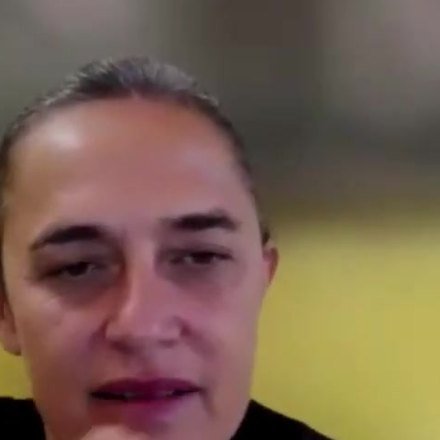
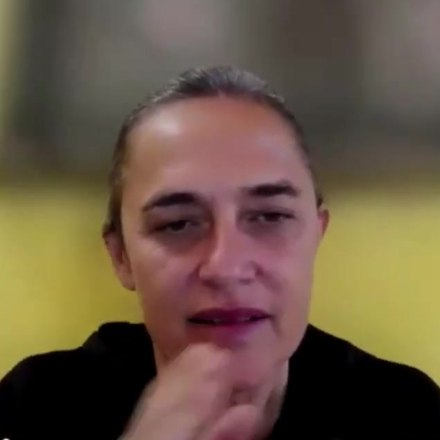
Give the Guests section the site's own visual identity, and centre the faces
THE FACES ARE NOW MEASURED, NOT ESTIMATED. Each portrait is re-cropped around a
detected face rather than a guessed centre, and all three land at x=0.50 with a
little headroom above. The crop is a fixed 1.6 times the detected face height, so
the face occupies the same share of every portrait regardless of how close each
person sat to their own camera. That is what makes three stills from three
different videos read as one set; a fixed pixel size did not, because two of the
three hit the frame ceiling and came out looser than the third.

THE SECTION NOW HAS ITS OWN GROUND, built from devices the site already uses
rather than a new visual language: a warm paper tint with two soft radial blooms
in the house cobalt and mustard, the same treatment the manifesto and the quiet
block carry; hairlines top and bottom instead of a hard edge, so it sits on the
paper rather than looking like a pasted panel; the 32 by 2 crimson bar that marks
a section everywhere else on the site; and the display serif paired with an
italic accent, which is the site's signature pairing.

The heading is larger, and the line under it is now "Leaders", set in the display
serif italic in the home page's cobalt at 29px against the old 15px, so it reads
as an editorial line rather than a caption.

Applied to BOTH About renderers again, the generated page and the hash route.

Verified in a browser at 1280 and 390: band present with its blooms and
[…]

diff --git a/css/style.css b/css/style.css
@@ -2771,18 +2771,52 @@ body.nav-open { overflow: hidden; }
 /* ── GUESTS on the About page ────────────────────────────────
    Guest cards carry the host classes so they inherit the whole card treatment, and sit in their
    own grid so the .host:nth-child accent rules apply per group. The one thing that must NOT carry
-   over is the per-host object-position: those values are tuned to each host's own crop, whereas the
-   guest stills are already centred, so they are reset here. */
-.guests-head { max-width: 1100px; margin: 78px auto 24px; padding: 0 24px; text-align: center; }
+   over is the per-host object-position, which is tuned to each host's own crop; the guest stills
+   are centred on the detected face, so it is reset below.
+
+   The band gives the group its own ground without inventing a new visual language: a warm paper
+   tint and two soft radial blooms in the house accents, the same device the manifesto and the
+   quiet block already use, plus the 32x2 crimson bar that marks a section everywhere else on the
+   site, and the display serif with an italic accent that is the site's signature pairing. */
+.guests-band {
+  position: relative; margin-top: 34px; padding: 8px 0 26px;
+  background:
+    radial-gradient(52% 46% at 18% 12%, rgba(44, 91, 170, .07), transparent 70%),
+    radial-gradient(48% 44% at 84% 78%, rgba(232, 184, 44, .10), transparent 72%),
+    linear-gradient(180deg, rgba(26, 22, 20, .028), rgba(26, 22, 20, .012));
+}
+/* hairlines top and bottom rather than a hard edge, so the band sits on the paper
+   instead of looking like a pasted panel */
+.guests-band::before, .guests-band::after {
+  content: ''; position: absolute; left: 0; right: 0; height: 1px;
+  background: rgba(26, 22, 20, .10);
+}
+.guests-band::before { top: 0; }
+.guests-band::after { bottom: 0; }
+.guests-head {
+  position: relative; max-width: 1100px; margin: 54px auto 30px;
+  padding: 0 24px; text-align: center;
+}
+.guests-head::before {
+  content: ''; display: block; width: 32px; height: 2px;
+  background: var(--crimson); margin: 0 auto 20px;
+}
 .guests-h {
   font-family: var(--font-display); font-weight: 600;
-  font-size: clamp(26px, 3.2vw, 38px); letter-spacing: -.5px; color: var(--ink); margin: 0 0 6px;
+  font-size: clamp(30px, 3.8vw, 46px); line-height: 1.04;
+  letter-spacing: -.8px; color: var(--ink); margin: 0 0 8px;
 }
-.guests-sub { font-size: 15px; color: var(--ink-mute); margin: 0; }
+.guests-sub { margin: 0; }
+.guests-sub em {
+  font-family: var(--font-display); font-style: italic; font-weight: 500;
+  font-size: clamp(20px, 2.4vw, 29px); line-height: 1.1;
+  letter-spacing: -.2px; color: var(--cobalt);
+}
+.guests-grid { position: relative; }
 /* The ID is deliberate. `.host:nth-child(N) .host-avatar-photo img` scores (0,3,1) and sets a
-   per-host object-position tuned to each host's own crop; a `.guest ...` selector scores
-   (0,2,1) and loses, which left the guest portraits pulled up to 26-32% and cropping their
-   faces. `#guests-grid` scores (1,1,1) and wins cleanly without !important. */
+   per-host object-position tuned to each host's own crop; a `.guest ...` selector scores (0,2,1)
+   and loses, which left the guest portraits pulled up to 26-32% and cropping their faces.
+   `#guests-grid` scores (1,1,1) and wins cleanly without !important. */
 #guests-grid .host-avatar-photo img { object-position: center center; }
 .guest-ep {
   display: inline-block; margin: 0 0 10px;
@@ -2791,4 +2825,7 @@ body.nav-open { overflow: hidden; }
   text-decoration: none; border-bottom: 1px solid rgba(26,22,20,.2); padding-bottom: 1px;
 }
 .guest-ep:hover, .guest-ep:focus-visible { color: var(--crimson); border-bottom-color: var(--crimson); }
-@media (max-width: 640px) { .guests-head { margin-top: 56px; } }
+@media (max-width: 640px) {
+  .guests-head { margin-top: 42px; }
+  .guests-band { margin-top: 24px; }
+}

diff --git a/scripts/build-pages.js b/scripts/build-pages.js
@@ -604,10 +604,23 @@ const DOC_CSS = `
 .doc-host p{font-size:15.5px;line-height:1.62;color:var(--ink-soft);margin:0 0 14px}
 .doc-host a{font-weight:600;font-size:14px;color:var(--cobalt-deep);text-decoration:none}
 .doc-host a + a{margin-left:16px}
-.doc-guests-head{max-width:900px;margin:14px auto 0;padding:0 24px}
-.doc-guests-head h2{font-family:var(--fd);font-size:26px;margin:0 0 4px;color:var(--ink)}
-.doc-guests-head p{font-size:14.5px;color:var(--ink-mute);margin:0}
-.doc-guests{padding-top:16px}
+/* The band gives the guests their own ground using the site's existing devices rather than a new
+   visual language: a warm paper tint with two soft radial blooms, hairlines instead of a hard
+   edge, the 32x2 crimson bar that marks a section elsewhere, and the display serif paired with an
+   italic accent. */
+.doc-guests-band{position:relative;margin-top:26px;padding:6px 0 22px;
+  background:radial-gradient(52% 46% at 18% 12%,rgba(44,91,170,.07),transparent 70%),
+             radial-gradient(48% 44% at 84% 78%,rgba(232,184,44,.10),transparent 72%),
+             linear-gradient(180deg,rgba(26,22,20,.028),rgba(26,22,20,.012))}
+.doc-guests-band::before,.doc-guests-band::after{content:'';position:absolute;left:0;right:0;height:1px;background:rgba(26,22,20,.10)}
+.doc-guests-band::before{top:0}
+.doc-guests-band::after{bottom:0}
+.doc-guests-head{max-width:900px;margin:40px auto 0;padding:0 24px;text-align:center}
+.doc-guests-head::before{content:'';display:block;width:32px;height:2px;background:var(--crimson);margin:0 auto 16px}
+.doc-guests-head h2{font-family:var(--fd);font-weight:600;font-size:clamp(28px,3.4vw,40px);line-height:1.05;letter-spacing:-.7px;margin:0 0 6px;color:var(--ink)}
+.doc-guests-head p{margin:0}
+.doc-guests-head p em{font-family:var(--fd);font-style:italic;font-weight:500;font-size:clamp(19px,2.2vw,26px);letter-spacing:-.2px;color:var(--cobalt)}
+.doc-guests{padding-top:18px}
 .doc-host a:hover{text-decoration:underline}
 :target{scroll-margin-top:83px}
 /* The sticky .doc-nav MEASURES 67px at 1440 and 768 but 189px at 390, where the brand and
@@ -928,8 +941,9 @@ function buildAboutPage() {
 <div class="doc-hub-head"><div class="doc-eyebrow">About</div><h1>Three people who ran out of patience with the official version</h1>
 <p>The Sector Debrief is a conversation between three people who have spent a long time inside humanitarian and development work. No polished lines. No scripted answers. The conversations that happen when the microphones are off.</p></div>
 <div class="doc-hosts">${hosts}</div>
-${guests ? `<div class="doc-guests-head"><h2>Guests</h2><p>People who joined a conversation.</p></div>
-<div class="doc-hosts doc-guests">${guests}</div>` : ''}`;
+${guests ? `<div class="doc-guests-band">
+<div class="doc-guests-head"><h2>Guests</h2><p><em>Leaders</em></p></div>
+<div class="doc-hosts doc-guests">${guests}</div></div>` : ''}`;
   return shell({
     title: 'About the hosts | The Sector Debrief',
     desc: 'Meet the hosts of The Sector Debrief: Ali Al Mokdad, Kim Kucinskas, and Thomas Jepson-Lay. Honest conversations on humanitarian and development leadership.',

diff --git a/about/index.html b/about/index.html
@@ -197,10 +197,23 @@
 .doc-host p{font-size:15.5px;line-height:1.62;color:var(--ink-soft);margin:0 0 14px}
 .doc-host a{font-weight:600;font-size:14px;color:var(--cobalt-deep);text-decoration:none}
 .doc-host a + a{margin-left:16px}
-.doc-guests-head{max-width:900px;margin:14px auto 0;padding:0 24px}
-.doc-guests-head h2{font-family:var(--fd);font-size:26px;margin:0 0 4px;color:var(--ink)}
-.doc-guests-head p{font-size:14.5px;color:var(--ink-mute);margin:0}
-.doc-guests{padding-top:16px}
+/* The band gives the guests their own ground using the site's existing devices rather than a new
+   visual language: a warm paper tint with two soft radial blooms, hairlines instead of a hard
+   edge, the 32x2 crimson bar that marks a section elsewhere, and the display serif paired with an
+   italic accent. */
+.doc-guests-band{position:relative;margin-top:26px;padding:6px 0 22px;
+  background:radial-gradient(52% 46% at 18% 12%,rgba(44,91,170,.07),transparent 70%),
+             radial-gradient(48% 44% at 84% 78%,rgba(232,184,44,.10),transparent 72%),
+             linear-gradient(180deg,rgba(26,22,20,.028),rgba(26,22,20,.012))}
+.doc-guests-band::before,.doc-guests-band::after{content:'';position:absolute;left:0;right:0;height:1px;background:rgba(26,22,20,.10)}
+.doc-guests-band::before{top:0}
+.doc-guests-band::after{bottom:0}
+.doc-guests-head{max-width:900px;margin:40px auto 0;padding:0 24px;text-align:center}
+.doc-guests-head::before{content:'';display:block;width:32px;height:2px;background:var(--crimson);margin:0 auto 16px}
+.doc-guests-head h2{font-family:var(--fd);font-weight:600;font-size:clamp(28px,3.4vw,40px);line-height:1.05;letter-spacing:-.7px;margin:0 0 6px;color:var(--ink)}
+.doc-guests-head p{margin:0}
+.doc-guests-head p em{font-family:var(--fd);font-style:italic;font-weight:500;font-size:clamp(19px,2.2vw,26px);letter-spacing:-.2px;color:var(--cobalt)}
+.doc-guests{padding-top:18px}
 .doc-host a:hover{text-decoration:underline}
 :target{scroll-margin-top:83px}
 /* The sticky .doc-nav MEASURES 67px at 1440 and 768 but 189px at 390, where the brand and
@@ -291,7 +304,8 @@
         <a href="https://www.linkedin.com/in/thomas-jepson-lay-1588211b4/" target="_blank" rel="noopener noreferrer">Connect on LinkedIn &rarr;</a>
       </div>
     </article></div>
-<div class="doc-guests-head"><h2>Guests</h2><p>People who joined a conversation.</p></div>
+<div class="doc-guests-band">
+<div class="doc-guests-head"><h2>Guests</h2><p><em>Leaders</em></p></div>
 <div class="doc-hosts doc-guests">
     <article class="doc-host doc-guest" id="sofia-sprechmann-sineiro">
       <img src="/assets/guest-sofia.jpg" alt="Sofia Sprechmann Sineiro" width="440" height="440" loading="lazy"/>
@@ -322,7 +336,7 @@
         <a href="/episodes/rethinking-risk-management/">Episode 8 &rarr;</a>
         <a href="https://uk.linkedin.com/in/smsegal" target="_blank" rel="noopener noreferrer">Connect on LinkedIn &rarr;</a>
       </div>
-    </article></div>
+    </article></div></div>
 </main>
 <footer class="doc-foot"><div class="doc-foot-in">
     <div class="doc-foot-grid">

diff --git a/index.html b/index.html
@@ -61,7 +61,7 @@
   <link href="https://fonts.googleapis.com/css2?family=Fraunces:ital,opsz,wght@0,9..144,400;0,9..144,500;0,9..144,600;0,9..144,700;1,9..144,400;1,9..144,500;1,9..144,600&family=Inter:wght@300;400;500;600;700&display=swap" rel="stylesheet" media="print" onload="this.media='all'"/>
   <noscript><link href="https://fonts.googleapis.com/css2?family=Fraunces:ital,opsz,wght@0,9..144,400;0,9..144,500;0,9..144,600;0,9..144,700;1,9..144,400;1,9..144,500;1,9..144,600&family=Inter:wght@300;400;500;600;700&display=swap" rel="stylesheet"/></noscript>
 
-  <link rel="stylesheet" href="css/style.css?v=2026-08-14l"/>
+  <link rel="stylesheet" href="css/style.css?v=2026-08-15a"/>
   <link rel="stylesheet" href="css/motion.css?v=2026-07-10b"/>
   <link rel="stylesheet" href="css/fourthchair.css?v=2026-07-10b"/>
 
@@ -1299,11 +1299,13 @@
 
     <!-- GUESTS. Same card treatment as the hosts, in its own grid so the nth-child accent and
          photo-position rules apply per group rather than running on from the hosts. -->
-    <div class="guests-head reveal">
-      <h3 class="guests-h">Guests</h3>
-      <p class="guests-sub">People who joined a conversation.</p>
+    <div class="guests-band">
+      <div class="guests-head reveal">
+        <h3 class="guests-h">Guests</h3>
+        <p class="guests-sub"><em>Leaders</em></p>
+      </div>
+      <div class="hosts-grid guests-grid reveal-stagger" id="guests-grid"></div>
     </div>
-    <div class="hosts-grid guests-grid reveal-stagger" id="guests-grid"></div>
 
     <!-- Why we made this -->
     <div class="manifesto">
